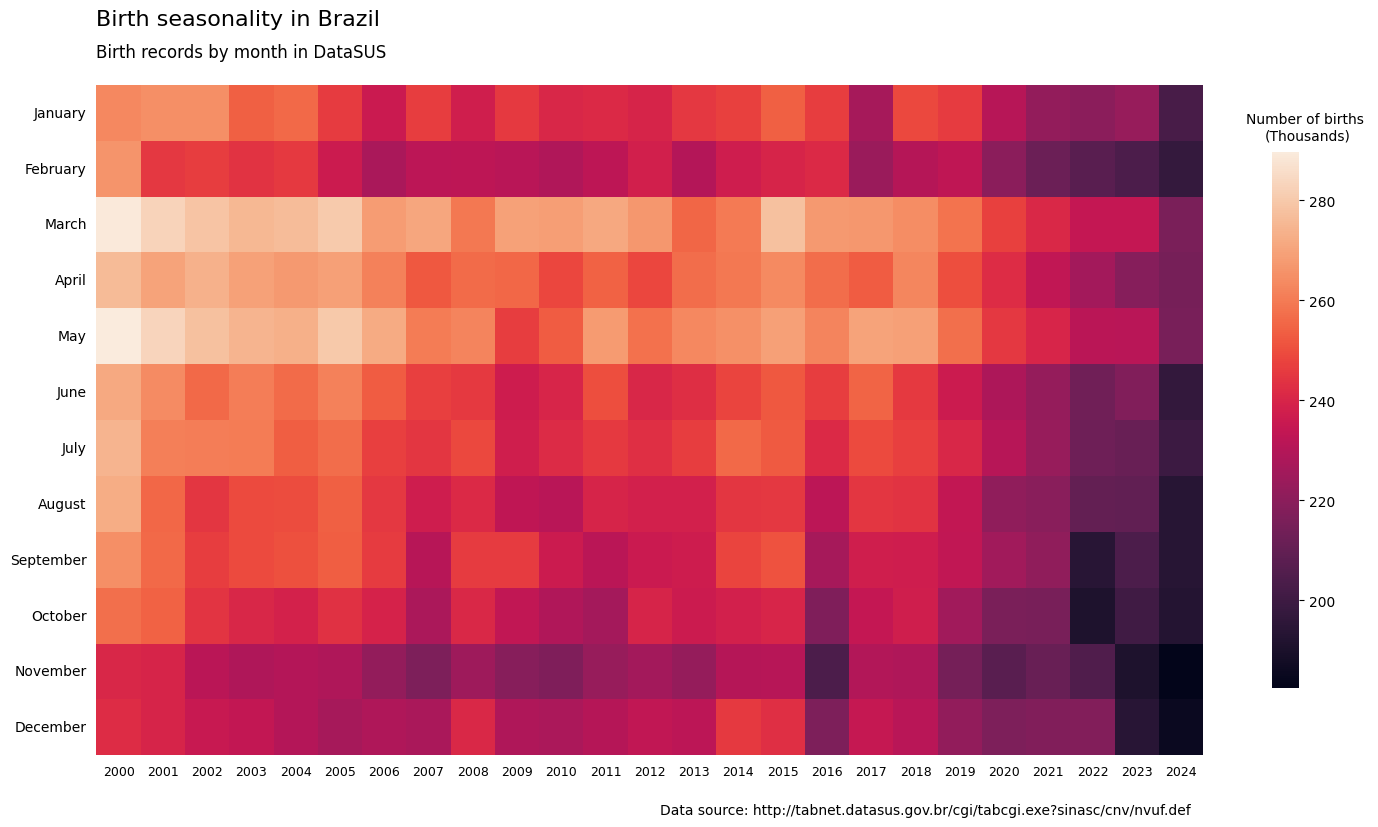
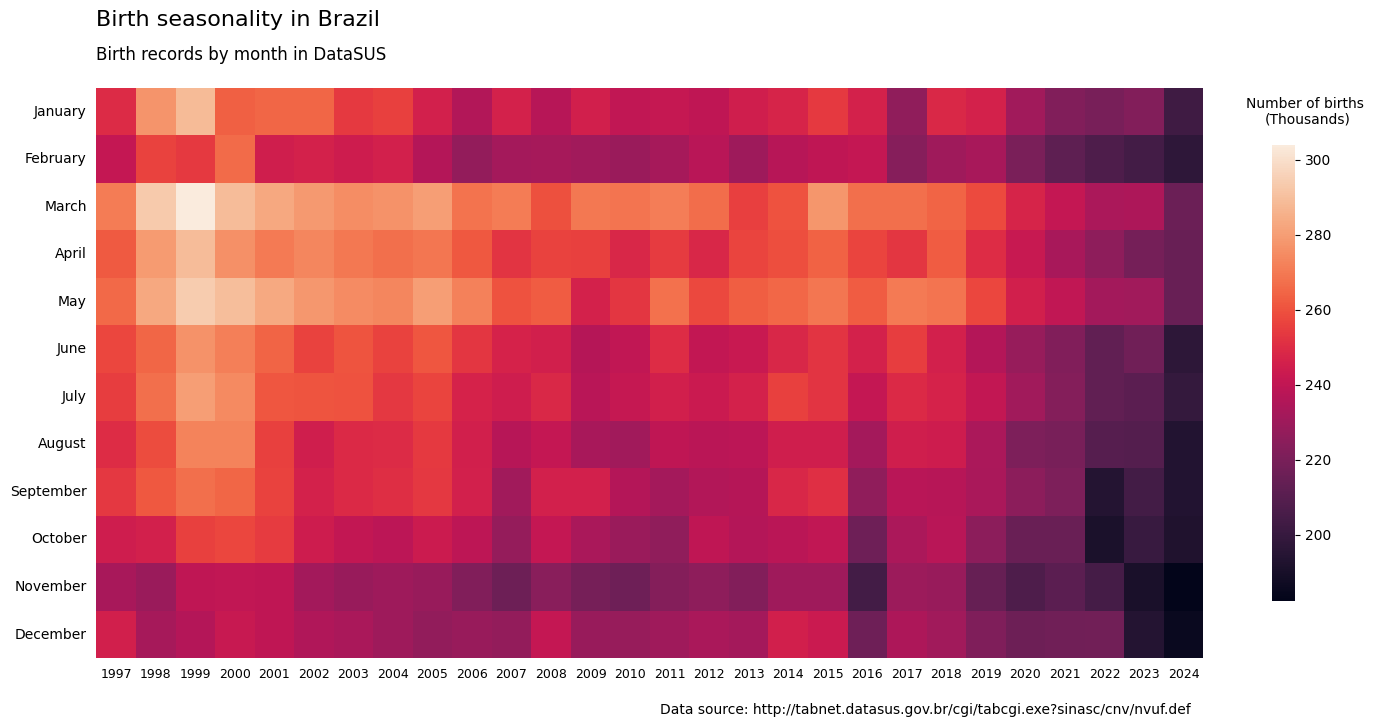
Year update
I increased the range to 1997. There are a few missing dates there, but it is not important.

diff --git a/heatmap.py b/heatmap.py
@@ -14,7 +14,7 @@ data_file = Path(__file__).with_name("births_brazil_datasus.xlsx")
 df_births = pd.read_excel(data_file, 
                           header = 4, 
                           index_col = 0,
-                          usecols = "B,I:AG",
+                          usecols = "B,F:AG",
                           skipfooter = 2)
 
 #-------------------------------------------------------------------------------------
@@ -23,8 +23,8 @@ df_births = pd.read_excel(data_file,
 #-------------------------------------------------------------------------------------
 # Figure 1
 # Heatmap
-# Creates a figure object with size 15x8 inches
-fig1, ax = plt.subplots(figsize = (15, 8))
+# Creates a figure object with size 15x7 inches
+fig1, ax = plt.subplots(figsize = (15, 7))
 
 sns.heatmap(df_births, cbar_kws = {'shrink': 0.8}) #, linewidths = 0.5, linecolor = 'white')
 